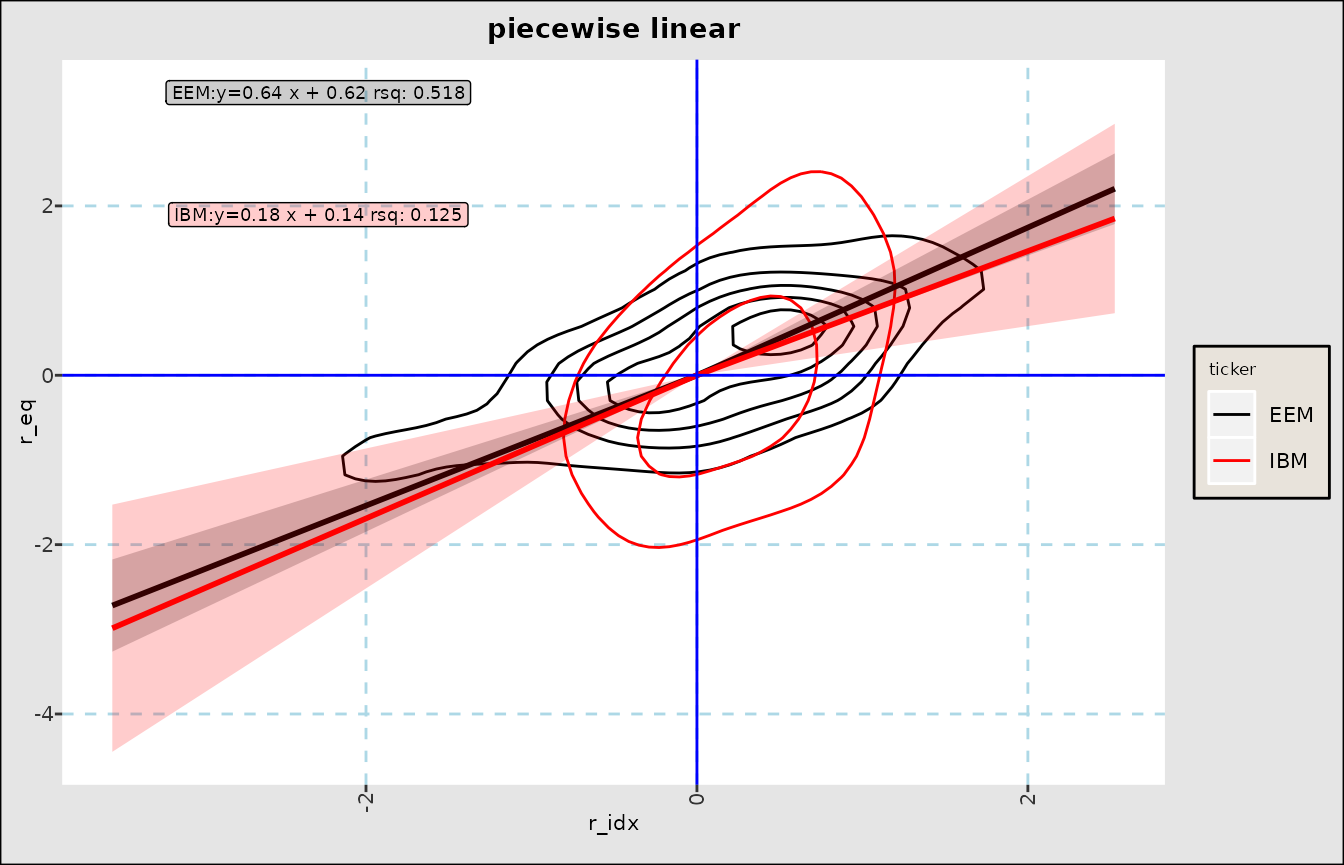
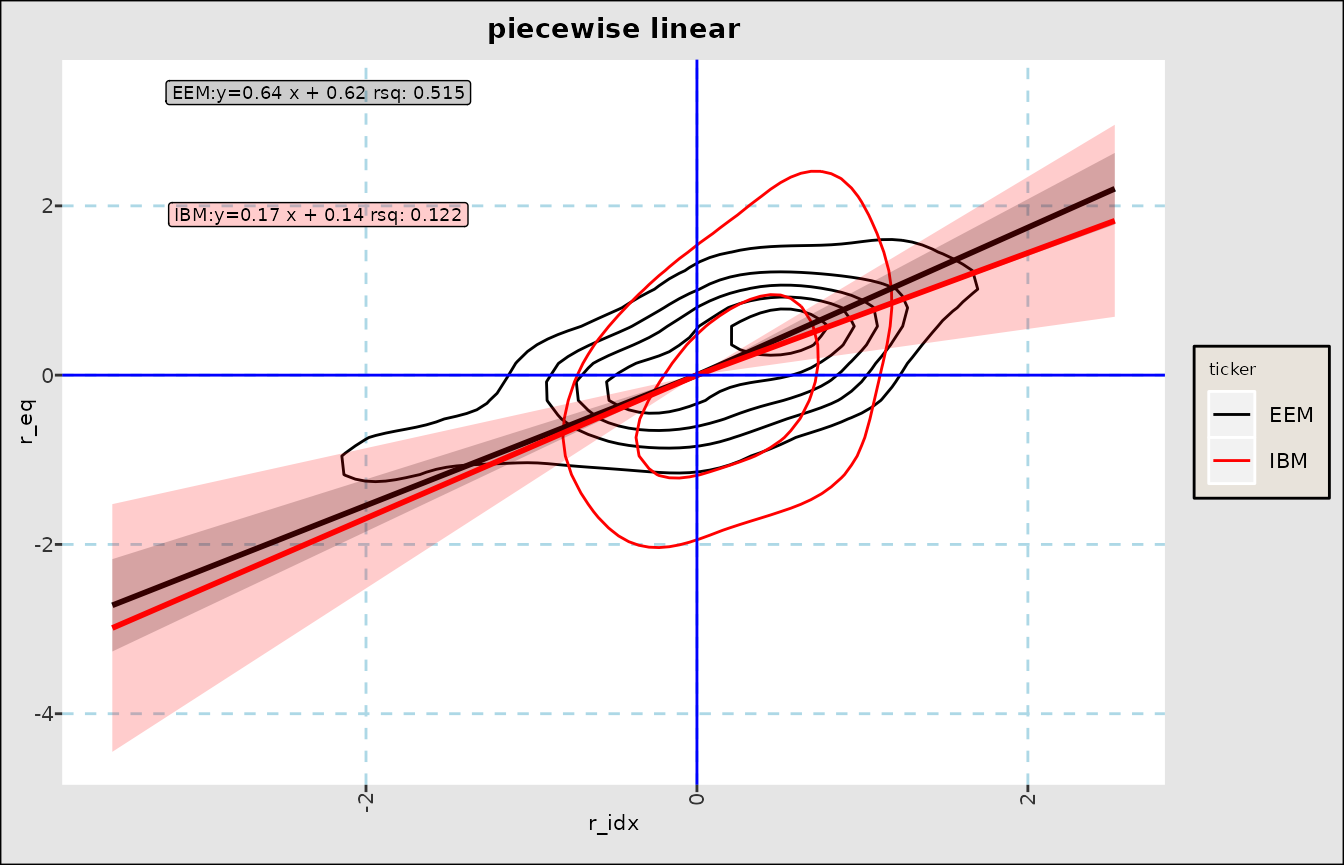
Deploying to gh-pages from @ derekholmes0/FinanceGraphs@0d99b816a4337595a4ce2541bef5dee7f5179ed4 🚀

diff --git a/extra.css b/extra.css
@@ -1,0 +1,32 @@
+/* Base font size for all body text */
+body {
+  font-size: 13px;
+}
+
+/* Code blocks and inline code */
+pre, code {
+  font-size: 11px !important;
+}
+
+/* Reference/function documentation */
+.contents {
+  font-size: 13px;
+}
+
+/* Article/vignette text */
+.row.article-content {
+  font-size: 12px;
+}
+
+/* Table output */
+table {
+  font-size: 11px;
+}
+
+.contents img {
+  border: 1px solid #cccccc;
+  padding: 4px;
+  border-radius: 4px;
+  display: block;
+  margin: 10px auto;   /* centers the image too */
+}

diff --git a/reference/fg_date_utilities.html b/reference/fg_date_utilities.html
@@ -1,5 +1,5 @@
 <!DOCTYPE html>
-<!-- Generated by pkgdown: do not edit by hand --><html lang="en"><head><meta http-equiv="Content-Type" content="text/html; charset=UTF-8"><meta charset="utf-8"><meta http-equiv="X-UA-Compatible" content="IE=edge"><meta name="viewport" content="width=device-width, initial-scale=1, shrink-to-fit=no"><title>Date Utilities — gendtstr • FinanceGraphs</title><script src="../deps/jquery-3.6.0/jquery-3.6.0.min.js"></script><meta name="viewport" content="width=device-width, initial-scale=1, shrink-to-fit=no"><link href="../deps/bootstrap-5.3.8/bootstrap.min.css" rel="stylesheet"><script src="../deps/bootstrap-5.3.8/bootstrap.bundle.min.js"></script><link href="../deps/font-awesome-6.5.2/css/all.min.css" rel="stylesheet"><link href="../deps/font-awesome-6.5.2/css/v4-shims.min.css" rel="stylesheet"><script src="../deps/headroom-0.11.0/headroom.min.js"></script><script src="../deps/headroom-0.11.0/jQuery.headroom.min.js"></script><script src="../deps/bootstrap-toc-1.0.1/bootstrap-toc.min.js"></script><script src="../deps/clipboard.js-2.0.11/clipboard.min.js"></script><script src="../deps/search-1.0.0/autocomplete.jquery.min.js"></script><script src="../deps/search-1.0.0/fuse.min.js"></script><script src="../deps/search-1.0.0/mark.min.js"></script><!-- pkgdown --><script src="../pkgdown.js"></script><meta property="og:title" content="Date Utilities — gendtstr"><meta name="description" content="COnverts a generic relative string defining one or two endpoints to exact dates or datestrings"><meta property="og:description" content="COnverts a generic relative string defining one or two endpoints to exact dates or datestrings"></head><body>
+<!-- Generated by pkgdown: do not edit by hand --><html lang="en"><head><meta http-equiv="Content-Type" content="text/html; charset=UTF-8"><meta charset="utf-8"><meta http-equiv="X-UA-Compatible" content="IE=edge"><meta name="viewport" content="width=device-width, initial-scale=1, shrink-to-fit=no"><title>Date Utilities — gendtstr • FinanceGraphs</title><script src="../deps/jquery-3.6.0/jquery-3.6.0.min.js"></script><meta name="viewport" content="width=device-width, initial-scale=1, shrink-to-fit=no"><link href="../deps/bootstrap-5.3.8/bootstrap.min.css" rel="stylesheet"><script src="../deps/bootstrap-5.3.8/bootstrap.bundle.min.js"></script><link href="../deps/font-awesome-6.5.2/css/all.min.css" rel="stylesheet"><link href="../deps/font-awesome-6.5.2/css/v4-shims.min.css" rel="stylesheet"><script src="../deps/headroom-0.11.0/headroom.min.js"></script><script src="../deps/headroom-0.11.0/jQuery.headroom.min.js"></script><script src="../deps/bootstrap-toc-1.0.1/bootstrap-toc.min.js"></script><script src="../deps/clipboard.js-2.0.11/clipboard.min.js"></script><script src="../deps/search-1.0.0/autocomplete.jquery.min.js"></script><script src="../deps/search-1.0.0/fuse.min.js"></script><script src="../deps/search-1.0.0/mark.min.js"></script><!-- pkgdown --><script src="../pkgdown.js"></script><link href="../extra.css" rel="stylesheet"><meta property="og:title" content="Date Utilities — gendtstr"><meta name="description" content="COnverts a generic relative string defining one or two endpoints to exact dates or datestrings"><meta property="og:description" content="COnverts a generic relative string defining one or two endpoints to exact dates or datestrings"></head><body>
     <a href="#main" class="visually-hidden-focusable">Skip to contents</a>
 
 
@@ -7,7 +7,7 @@
 
     <a class="navbar-brand me-2" href="../index.html">FinanceGraphs</a>
 
-    <small class="nav-text text-muted me-auto" data-bs-toggle="tooltip" data-bs-placement="bottom" title="">0.8.71</small>
+    <small class="nav-text text-muted me-auto" data-bs-toggle="tooltip" data-bs-placement="bottom" title="">0.8.75</small>
 
 
     <button class="navbar-toggler" type="button" data-bs-toggle="collapse" data-bs-target="#navbar" aria-controls="navbar" aria-expanded="false" aria-label="Toggle navigation">
@@ -142,16 +142,16 @@ If <code>rtn="list"</code> returns <code>c(startdt,enddt)</code>, if <code>rtn="
     <div class="section level2">
     <h2 id="ref-examples">Examples<a class="anchor" aria-label="anchor" href="#ref-examples"></a></h2>
     <div class="sourceCode"><pre class="sourceCode r"><code><span class="r-in"><span><span class="fu">gendtstr</span><span class="op">(</span><span class="st">"-3m::"</span><span class="op">)</span></span></span>
-<span class="r-out co"><span class="r-pr">#&gt;</span> [1] "2026-03-16::2026-06-16"</span>
+<span class="r-out co"><span class="r-pr">#&gt;</span> [1] "2026-03-18::2026-06-18"</span>
 <span class="r-in"><span><span class="fu">gendtstr</span><span class="op">(</span><span class="st">"-2y::-3m"</span>,today<span class="op">=</span><span class="fu"><a href="https://rdrr.io/r/base/as.Date.html" class="external-link">as.Date</a></span><span class="op">(</span><span class="st">"2025-03-15"</span><span class="op">)</span><span class="op">)</span></span></span>
 <span class="r-out co"><span class="r-pr">#&gt;</span> [1] "2023-03-15::2024-12-15"</span>
 <span class="r-in"><span><span class="fu">narrowbydtstr</span><span class="op">(</span><span class="va">eqtypx</span>,<span class="st">"-2m::-1m"</span><span class="op">)</span></span></span>
 <span class="r-out co"><span class="r-pr">#&gt;</span> Key: &lt;date&gt;</span>
 <span class="r-out co"><span class="r-pr">#&gt;</span> Empty data.table (0 rows and 5 cols): date,EEM,IBM,QQQ,TLT</span>
 <span class="r-in"><span><span class="fu">extenddtstr</span><span class="op">(</span><span class="st">"-2m::-1m"</span><span class="op">)</span></span></span>
-<span class="r-out co"><span class="r-pr">#&gt;</span> [1] "2026-04-16::2026-05-16"</span>
+<span class="r-out co"><span class="r-pr">#&gt;</span> [1] "2026-04-18::2026-05-18"</span>
 <span class="r-in"><span><span class="fu">extenddtstr</span><span class="op">(</span><span class="st">"-2m::-1m"</span>,begchg<span class="op">=</span><span class="op">-</span><span class="fl">10</span>,endchg<span class="op">=</span><span class="fl">5</span><span class="op">)</span></span></span>
-<span class="r-out co"><span class="r-pr">#&gt;</span> [1] "2026-04-06::2026-05-21"</span>
+<span class="r-out co"><span class="r-pr">#&gt;</span> [1] "2026-04-08::2026-05-23"</span>
 </code></pre></div>
     </div>
   </main><aside class="col-md-3"><nav id="toc" aria-label="Table of contents"><h2>On this page</h2>

diff --git a/index.html b/index.html
@@ -10,7 +10,8 @@
 <link href="deps/bootstrap-5.3.8/bootstrap.min.css" rel="stylesheet">
 <script src="deps/bootstrap-5.3.8/bootstrap.bundle.min.js"></script><link href="deps/font-awesome-6.5.2/css/all.min.css" rel="stylesheet">
 <link href="deps/font-awesome-6.5.2/css/v4-shims.min.css" rel="stylesheet">
-<script src="deps/headroom-0.11.0/headroom.min.js"></script><script src="deps/headroom-0.11.0/jQuery.headroom.min.js"></script><script src="deps/bootstrap-toc-1.0.1/bootstrap-toc.min.js"></script><script src="deps/clipboard.js-2.0.11/clipboard.min.js"></script><script src="deps/search-1.0.0/autocomplete.jquery.min.js"></script><script src="deps/search-1.0.0/fuse.min.js"></script><script src="deps/search-1.0.0/mark.min.js"></script><!-- pkgdown --><script src="pkgdown.js"></script><meta property="og:title" content="Flexible Graphs for Analysis of Financial Data and Time Series">
+<script src="deps/headroom-0.11.0/headroom.min.js"></script><script src="deps/headroom-0.11.0/jQuery.headroom.min.js"></script><script src="deps/bootstrap-toc-1.0.1/bootstrap-toc.min.js"></script><script src="deps/clipboard.js-2.0.11/clipboard.min.js"></script><script src="deps/search-1.0.0/autocomplete.jquery.min.js"></script><script src="deps/search-1.0.0/fuse.min.js"></script><script src="deps/search-1.0.0/mark.min.js"></script><!-- pkgdown --><script src="pkgdown.js"></script><link href="extra.css" rel="stylesheet">
+<meta property="og:title" content="Flexible Graphs for Analysis of Financial Data and Time Series">
 <meta name="description" content="Flexible wrappers around R graphics modules dygraphs &lt;https://dygraphs.com/&gt; and ggplot2 &lt;https://ggplot2.tidyverse.org/&gt; to visualize data commonly found in Financial Studies, with an emphasis on time series. Interactive time series plots include multiple options for incorporating external data such as forecasts and events. Other static plots useful for time series data include an intuitive and generic scatter plotter, a boxplot generator suitable for multiple time series, and event study plotters for time series analysis around sets of dates.">
 <meta property="og:description" content="Flexible wrappers around R graphics modules dygraphs &lt;https://dygraphs.com/&gt; and ggplot2 &lt;https://ggplot2.tidyverse.org/&gt; to visualize data commonly found in Financial Studies, with an emphasis on time series. Interactive time series plots include multiple options for incorporating external data such as forecasts and events. Other static plots useful for time series data include an intuitive and generic scatter plotter, a boxplot generator suitable for multiple time series, and event study plotters for time series analysis around sets of dates.">
 </head>
@@ -22,7 +23,7 @@
 
     <a class="navbar-brand me-2" href="index.html">FinanceGraphs</a>
 
-    <small class="nav-text text-muted me-auto" data-bs-toggle="tooltip" data-bs-placement="bottom" title="">0.8.71</small>
+    <small class="nav-text text-muted me-auto" data-bs-toggle="tooltip" data-bs-placement="bottom" title="">0.8.75</small>
 
 
     <button class="navbar-toggler" type="button" data-bs-toggle="collapse" data-bs-target="#navbar" aria-controls="navbar" aria-expanded="false" aria-label="Toggle navigation">
@@ -233,8 +234,8 @@ The <code>events</code> parameter is a string with one or more (separated by sem
 <span><span class="co">#&gt; NULL</span></span>
 <span><span class="fu"><a href="https://rdrr.io/r/utils/head.html" class="external-link">tail</a></span><span class="op">(</span><span class="fu"><a href="reference/fg_dates_of_interest.html">fg_get_dates_of_interest</a></span><span class="op">(</span><span class="st">"fedmoves"</span><span class="op">)</span>,<span class="fl">2</span><span class="op">)</span>  <span class="op">|&gt;</span> <span class="fu"><a href="https://rdrr.io/r/base/data.frame.html" class="external-link">data.frame</a></span><span class="op">(</span><span class="op">)</span></span>
 <span><span class="co">#&gt;   category eventid eventid2   DT_ENTRY END_DT_ENTRY color strokePattern  loc</span></span>
-<span><span class="co">#&gt; 1 fedmoves   F:-25     rt:4 2025-10-29   2025-10-29  &lt;NA&gt;          &lt;NA&gt; &lt;NA&gt;</span></span>
-<span><span class="co">#&gt; 2 fedmoves   F:-25  rt:3.75 2025-12-10   2025-12-10  &lt;NA&gt;          &lt;NA&gt; &lt;NA&gt;</span></span>
+<span><span class="co">#&gt; 1 fedmoves   F:-25  rt:3.75 2025-12-10   2025-12-10  &lt;NA&gt;          &lt;NA&gt; &lt;NA&gt;</span></span>
+<span><span class="co">#&gt; 2 fedmoves   F:-50     &lt;NA&gt; 2026-06-16   2026-06-16  &lt;NA&gt;          &lt;NA&gt; &lt;NA&gt;</span></span>
 <span><span class="fu"><a href="reference/set_constants.html">fg_reset_to_default_state</a></span><span class="op">(</span><span class="st">"all"</span><span class="op">)</span></span>
 <span><span class="co">#&gt; Removing dates file and reverting to defaults of package</span></span>
 <span><span class="co">#&gt; Removing Aesthetics file and reverting to defaults of package</span></span>

diff --git a/authors.html b/authors.html
@@ -1,5 +1,5 @@
 <!DOCTYPE html>
-<!-- Generated by pkgdown: do not edit by hand --><html lang="en"><head><meta http-equiv="Content-Type" content="text/html; charset=UTF-8"><meta charset="utf-8"><meta http-equiv="X-UA-Compatible" content="IE=edge"><meta name="viewport" content="width=device-width, initial-scale=1, shrink-to-fit=no"><title>Authors and Citation • FinanceGraphs</title><script src="deps/jquery-3.6.0/jquery-3.6.0.min.js"></script><meta name="viewport" content="width=device-width, initial-scale=1, shrink-to-fit=no"><link href="deps/bootstrap-5.3.8/bootstrap.min.css" rel="stylesheet"><script src="deps/bootstrap-5.3.8/bootstrap.bundle.min.js"></script><link href="deps/font-awesome-6.5.2/css/all.min.css" rel="stylesheet"><link href="deps/font-awesome-6.5.2/css/v4-shims.min.css" rel="stylesheet"><script src="deps/headroom-0.11.0/headroom.min.js"></script><script src="deps/headroom-0.11.0/jQuery.headroom.min.js"></script><script src="deps/bootstrap-toc-1.0.1/bootstrap-toc.min.js"></script><script src="deps/clipboard.js-2.0.11/clipboard.min.js"></script><script src="deps/search-1.0.0/autocomplete.jquery.min.js"></script><script src="deps/search-1.0.0/fuse.min.js"></script><script src="deps/search-1.0.0/mark.min.js"></script><!-- pkgdown --><script src="pkgdown.js"></script><meta property="og:title" content="Authors and Citation"></head><body>
+<!-- Generated by pkgdown: do not edit by hand --><html lang="en"><head><meta http-equiv="Content-Type" content="text/html; charset=UTF-8"><meta charset="utf-8"><meta http-equiv="X-UA-Compatible" content="IE=edge"><meta name="viewport" content="width=device-width, initial-scale=1, shrink-to-fit=no"><title>Authors and Citation • FinanceGraphs</title><script src="deps/jquery-3.6.0/jquery-3.6.0.min.js"></script><meta name="viewport" content="width=device-width, initial-scale=1, shrink-to-fit=no"><link href="deps/bootstrap-5.3.8/bootstrap.min.css" rel="stylesheet"><script src="deps/bootstrap-5.3.8/bootstrap.bundle.min.js"></script><link href="deps/font-awesome-6.5.2/css/all.min.css" rel="stylesheet"><link href="deps/font-awesome-6.5.2/css/v4-shims.min.css" rel="stylesheet"><script src="deps/headroom-0.11.0/headroom.min.js"></script><script src="deps/headroom-0.11.0/jQuery.headroom.min.js"></script><script src="deps/bootstrap-toc-1.0.1/bootstrap-toc.min.js"></script><script src="deps/clipboard.js-2.0.11/clipboard.min.js"></script><script src="deps/search-1.0.0/autocomplete.jquery.min.js"></script><script src="deps/search-1.0.0/fuse.min.js"></script><script src="deps/search-1.0.0/mark.min.js"></script><!-- pkgdown --><script src="pkgdown.js"></script><link href="extra.css" rel="stylesheet"><meta property="og:title" content="Authors and Citation"></head><body>
     <a href="#main" class="visually-hidden-focusable">Skip to contents</a>
 
 
@@ -7,7 +7,7 @@
 
     <a class="navbar-brand me-2" href="index.html">FinanceGraphs</a>
 
-    <small class="nav-text text-muted me-auto" data-bs-toggle="tooltip" data-bs-placement="bottom" title="">0.8.71</small>
+    <small class="nav-text text-muted me-auto" data-bs-toggle="tooltip" data-bs-placement="bottom" title="">0.8.75</small>
 
 
     <button class="navbar-toggler" type="button" data-bs-toggle="collapse" data-bs-target="#navbar" aria-controls="navbar" aria-expanded="false" aria-label="Toggle navigation">
@@ -52,13 +52,13 @@
 
       <p>Holmes D (2026).
 <em>FinanceGraphs: Flexible Graphs for Analysis of Financial Data and Time Series</em>.
-R package version 0.8.71, <a href="https://github.com/derekholmes0/FinanceGraphs" class="external-link">https://github.com/derekholmes0/FinanceGraphs</a>.
+R package version 0.8.75, <a href="https://github.com/derekholmes0/FinanceGraphs" class="external-link">https://github.com/derekholmes0/FinanceGraphs</a>.
 </p>
       <pre>@Manual{,
   title = {FinanceGraphs: Flexible Graphs for Analysis of Financial Data and Time Series},
   author = {Derek Holmes},
   year = {2026},
-  note = {R package version 0.8.71},
+  note = {R package version 0.8.75},
   url = {https://github.com/derekholmes0/FinanceGraphs},
 }</pre>
     </div>

diff --git a/404.html b/404.html
@@ -10,7 +10,8 @@
 <link href="https://derekholmes0.github.io/FinanceGraphs/deps/bootstrap-5.3.8/bootstrap.min.css" rel="stylesheet">
 <script src="https://derekholmes0.github.io/FinanceGraphs/deps/bootstrap-5.3.8/bootstrap.bundle.min.js"></script><link href="https://derekholmes0.github.io/FinanceGraphs/deps/font-awesome-6.5.2/css/all.min.css" rel="stylesheet">
 <link href="https://derekholmes0.github.io/FinanceGraphs/deps/font-awesome-6.5.2/css/v4-shims.min.css" rel="stylesheet">
-<script src="https://derekholmes0.github.io/FinanceGraphs/deps/headroom-0.11.0/headroom.min.js"></script><script src="https://derekholmes0.github.io/FinanceGraphs/deps/headroom-0.11.0/jQuery.headroom.min.js"></script><script src="https://derekholmes0.github.io/FinanceGraphs/deps/bootstrap-toc-1.0.1/bootstrap-toc.min.js"></script><script src="https://derekholmes0.github.io/FinanceGraphs/deps/clipboard.js-2.0.11/clipboard.min.js"></script><script src="https://derekholmes0.github.io/FinanceGraphs/deps/search-1.0.0/autocomplete.jquery.min.js"></script><script src="https://derekholmes0.github.io/FinanceGraphs/deps/search-1.0.0/fuse.min.js"></script><script src="https://derekholmes0.github.io/FinanceGraphs/deps/search-1.0.0/mark.min.js"></script><!-- pkgdown --><script src="https://derekholmes0.github.io/FinanceGraphs/pkgdown.js"></script><meta property="og:title" content="Page not found (404)">
+<script src="https://derekholmes0.github.io/FinanceGraphs/deps/headroom-0.11.0/headroom.min.js"></script><script src="https://derekholmes0.github.io/FinanceGraphs/deps/headroom-0.11.0/jQuery.headroom.min.js"></script><script src="https://derekholmes0.github.io/FinanceGraphs/deps/bootstrap-toc-1.0.1/bootstrap-toc.min.js"></script><script src="https://derekholmes0.github.io/FinanceGraphs/deps/clipboard.js-2.0.11/clipboard.min.js"></script><script src="https://derekholmes0.github.io/FinanceGraphs/deps/search-1.0.0/autocomplete.jquery.min.js"></script><script src="https://derekholmes0.github.io/FinanceGraphs/deps/search-1.0.0/fuse.min.js"></script><script src="https://derekholmes0.github.io/FinanceGraphs/deps/search-1.0.0/mark.min.js"></script><!-- pkgdown --><script src="https://derekholmes0.github.io/FinanceGraphs/pkgdown.js"></script><link href="https://derekholmes0.github.io/FinanceGraphs/extra.css" rel="stylesheet">
+<meta property="og:title" content="Page not found (404)">
 </head>
 <body>
     <a href="https://derekholmes0.github.io/FinanceGraphs/#main" class="visually-hidden-focusable">Skip to contents</a>
@@ -20,7 +21,7 @@
 
     <a class="navbar-brand me-2" href="https://derekholmes0.github.io/FinanceGraphs/index.html">FinanceGraphs</a>
 
-    <small class="nav-text text-muted me-auto" data-bs-toggle="tooltip" data-bs-placement="bottom" title="">0.8.71</small>
+    <small class="nav-text text-muted me-auto" data-bs-toggle="tooltip" data-bs-placement="bottom" title="">0.8.75</small>
 
 
     <button class="navbar-toggler" type="button" data-bs-toggle="collapse" data-bs-target="#navbar" aria-controls="navbar" aria-expanded="false" aria-label="Toggle navigation">

diff --git a/articles/FinanceGraphs-customization.html b/articles/FinanceGraphs-customization.html
@@ -10,7 +10,8 @@
 <link href="../deps/bootstrap-5.3.8/bootstrap.min.css" rel="stylesheet">
 <script src="../deps/bootstrap-5.3.8/bootstrap.bundle.min.js"></script><link href="../deps/font-awesome-6.5.2/css/all.min.css" rel="stylesheet">
 <link href="../deps/font-awesome-6.5.2/css/v4-shims.min.css" rel="stylesheet">
-<script src="../deps/headroom-0.11.0/headroom.min.js"></script><script src="../deps/headroom-0.11.0/jQuery.headroom.min.js"></script><script src="../deps/bootstrap-toc-1.0.1/bootstrap-toc.min.js"></script><script src="../deps/clipboard.js-2.0.11/clipboard.min.js"></script><script src="../deps/search-1.0.0/autocomplete.jquery.min.js"></script><script src="../deps/search-1.0.0/fuse.min.js"></script><script src="../deps/search-1.0.0/mark.min.js"></script><!-- pkgdown --><script src="../pkgdown.js"></script><meta property="og:title" content="FinanceGraphs-Customization">
+<script src="../deps/headroom-0.11.0/headroom.min.js"></script><script src="../deps/headroom-0.11.0/jQuery.headroom.min.js"></script><script src="../deps/bootstrap-toc-1.0.1/bootstrap-toc.min.js"></script><script src="../deps/clipboard.js-2.0.11/clipboard.min.js"></script><script src="../deps/search-1.0.0/autocomplete.jquery.min.js"></script><script src="../deps/search-1.0.0/fuse.min.js"></script><script src="../deps/search-1.0.0/mark.min.js"></script><!-- pkgdown --><script src="../pkgdown.js"></script><link href="../extra.css" rel="stylesheet">
+<meta property="og:title" content="FinanceGraphs-Customization">
 </head>
 <body>
     <a href="#main" class="visually-hidden-focusable">Skip to contents</a>
@@ -20,7 +21,7 @@
 
     <a class="navbar-brand me-2" href="../index.html">FinanceGraphs</a>
 
-    <small class="nav-text text-muted me-auto" data-bs-toggle="tooltip" data-bs-placement="bottom" title="">0.8.71</small>
+    <small class="nav-text text-muted me-auto" data-bs-toggle="tooltip" data-bs-placement="bottom" title="">0.8.75</small>
 
 
     <button class="navbar-toggler" type="button" data-bs-toggle="collapse" data-bs-target="#navbar" aria-controls="navbar" aria-expanded="false" aria-label="Toggle navigation">

diff --git a/articles/Time-Series-scatterplot.html b/articles/Time-Series-scatterplot.html
@@ -10,7 +10,8 @@
 <link href="../deps/bootstrap-5.3.8/bootstrap.min.css" rel="stylesheet">
 <script src="../deps/bootstrap-5.3.8/bootstrap.bundle.min.js"></script><link href="../deps/font-awesome-6.5.2/css/all.min.css" rel="stylesheet">
 <link href="../deps/font-awesome-6.5.2/css/v4-shims.min.css" rel="stylesheet">
-<script src="../deps/headroom-0.11.0/headroom.min.js"></script><script src="../deps/headroom-0.11.0/jQuery.headroom.min.js"></script><script src="../deps/bootstrap-toc-1.0.1/bootstrap-toc.min.js"></script><script src="../deps/clipboard.js-2.0.11/clipboard.min.js"></script><script src="../deps/search-1.0.0/autocomplete.jquery.min.js"></script><script src="../deps/search-1.0.0/fuse.min.js"></script><script src="../deps/search-1.0.0/mark.min.js"></script><!-- pkgdown --><script src="../pkgdown.js"></script><meta property="og:title" content="Time-Series-scatterplot">
+<script src="../deps/headroom-0.11.0/headroom.min.js"></script><script src="../deps/headroom-0.11.0/jQuery.headroom.min.js"></script><script src="../deps/bootstrap-toc-1.0.1/bootstrap-toc.min.js"></script><script src="../deps/clipboard.js-2.0.11/clipboard.min.js"></script><script src="../deps/search-1.0.0/autocomplete.jquery.min.js"></script><script src="../deps/search-1.0.0/fuse.min.js"></script><script src="../deps/search-1.0.0/mark.min.js"></script><!-- pkgdown --><script src="../pkgdown.js"></script><link href="../extra.css" rel="stylesheet">
+<meta property="og:title" content="Time-Series-scatterplot">
 </head>
 <body>
     <a href="#main" class="visually-hidden-focusable">Skip to contents</a>
@@ -20,7 +21,7 @@
 
     <a class="navbar-brand me-2" href="../index.html">FinanceGraphs</a>
 
-    <small class="nav-text text-muted me-auto" data-bs-toggle="tooltip" data-bs-placement="bottom" title="">0.8.71</small>
+    <small class="nav-text text-muted me-auto" data-bs-toggle="tooltip" data-bs-placement="bottom" title="">0.8.75</small>
 
 
     <button class="navbar-toggler" type="button" data-bs-toggle="collapse" data-bs-target="#navbar" aria-controls="navbar" aria-expanded="false" aria-label="Toggle navigation">

diff --git a/LICENSE.html b/LICENSE.html
@@ -1,5 +1,5 @@
 <!DOCTYPE html>
-<!-- Generated by pkgdown: do not edit by hand --><html lang="en"><head><meta http-equiv="Content-Type" content="text/html; charset=UTF-8"><meta charset="utf-8"><meta http-equiv="X-UA-Compatible" content="IE=edge"><meta name="viewport" content="width=device-width, initial-scale=1, shrink-to-fit=no"><title>GNU General Public License • FinanceGraphs</title><script src="deps/jquery-3.6.0/jquery-3.6.0.min.js"></script><meta name="viewport" content="width=device-width, initial-scale=1, shrink-to-fit=no"><link href="deps/bootstrap-5.3.8/bootstrap.min.css" rel="stylesheet"><script src="deps/bootstrap-5.3.8/bootstrap.bundle.min.js"></script><link href="deps/font-awesome-6.5.2/css/all.min.css" rel="stylesheet"><link href="deps/font-awesome-6.5.2/css/v4-shims.min.css" rel="stylesheet"><script src="deps/headroom-0.11.0/headroom.min.js"></script><script src="deps/headroom-0.11.0/jQuery.headroom.min.js"></script><script src="deps/bootstrap-toc-1.0.1/bootstrap-toc.min.js"></script><script src="deps/clipboard.js-2.0.11/clipboard.min.js"></script><script src="deps/search-1.0.0/autocomplete.jquery.min.js"></script><script src="deps/search-1.0.0/fuse.min.js"></script><script src="deps/search-1.0.0/mark.min.js"></script><!-- pkgdown --><script src="pkgdown.js"></script><meta property="og:title" content="GNU General Public License"></head><body>
+<!-- Generated by pkgdown: do not edit by hand --><html lang="en"><head><meta http-equiv="Content-Type" content="text/html; charset=UTF-8"><meta charset="utf-8"><meta http-equiv="X-UA-Compatible" content="IE=edge"><meta name="viewport" content="width=device-width, initial-scale=1, shrink-to-fit=no"><title>GNU General Public License • FinanceGraphs</title><script src="deps/jquery-3.6.0/jquery-3.6.0.min.js"></script><meta name="viewport" content="width=device-width, initial-scale=1, shrink-to-fit=no"><link href="deps/bootstrap-5.3.8/bootstrap.min.css" rel="stylesheet"><script src="deps/bootstrap-5.3.8/bootstrap.bundle.min.js"></script><link href="deps/font-awesome-6.5.2/css/all.min.css" rel="stylesheet"><link href="deps/font-awesome-6.5.2/css/v4-shims.min.css" rel="stylesheet"><script src="deps/headroom-0.11.0/headroom.min.js"></script><script src="deps/headroom-0.11.0/jQuery.headroom.min.js"></script><script src="deps/bootstrap-toc-1.0.1/bootstrap-toc.min.js"></script><script src="deps/clipboard.js-2.0.11/clipboard.min.js"></script><script src="deps/search-1.0.0/autocomplete.jquery.min.js"></script><script src="deps/search-1.0.0/fuse.min.js"></script><script src="deps/search-1.0.0/mark.min.js"></script><!-- pkgdown --><script src="pkgdown.js"></script><link href="extra.css" rel="stylesheet"><meta property="og:title" content="GNU General Public License"></head><body>
     <a href="#main" class="visually-hidden-focusable">Skip to contents</a>
 
 
@@ -7,7 +7,7 @@
 
     <a class="navbar-brand me-2" href="index.html">FinanceGraphs</a>
 
-    <small class="nav-text text-muted me-auto" data-bs-toggle="tooltip" data-bs-placement="bottom" title="">0.8.71</small>
+    <small class="nav-text text-muted me-auto" data-bs-toggle="tooltip" data-bs-placement="bottom" title="">0.8.75</small>
 
 
     <button class="navbar-toggler" type="button" data-bs-toggle="collapse" data-bs-target="#navbar" aria-controls="navbar" aria-expanded="false" aria-label="Toggle navigation">

diff --git a/articles/index.html b/articles/index.html
@@ -1,5 +1,5 @@
 <!DOCTYPE html>
-<!-- Generated by pkgdown: do not edit by hand --><html lang="en"><head><meta http-equiv="Content-Type" content="text/html; charset=UTF-8"><meta charset="utf-8"><meta http-equiv="X-UA-Compatible" content="IE=edge"><meta name="viewport" content="width=device-width, initial-scale=1, shrink-to-fit=no"><title>Articles • FinanceGraphs</title><script src="../deps/jquery-3.6.0/jquery-3.6.0.min.js"></script><meta name="viewport" content="width=device-width, initial-scale=1, shrink-to-fit=no"><link href="../deps/bootstrap-5.3.8/bootstrap.min.css" rel="stylesheet"><script src="../deps/bootstrap-5.3.8/bootstrap.bundle.min.js"></script><link href="../deps/font-awesome-6.5.2/css/all.min.css" rel="stylesheet"><link href="../deps/font-awesome-6.5.2/css/v4-shims.min.css" rel="stylesheet"><script src="../deps/headroom-0.11.0/headroom.min.js"></script><script src="../deps/headroom-0.11.0/jQuery.headroom.min.js"></script><script src="../deps/bootstrap-toc-1.0.1/bootstrap-toc.min.js"></script><script src="../deps/clipboard.js-2.0.11/clipboard.min.js"></script><script src="../deps/search-1.0.0/autocomplete.jquery.min.js"></script><script src="../deps/search-1.0.0/fuse.min.js"></script><script src="../deps/search-1.0.0/mark.min.js"></script><!-- pkgdown --><script src="../pkgdown.js"></script><meta property="og:title" content="Articles"></head><body>
+<!-- Generated by pkgdown: do not edit by hand --><html lang="en"><head><meta http-equiv="Content-Type" content="text/html; charset=UTF-8"><meta charset="utf-8"><meta http-equiv="X-UA-Compatible" content="IE=edge"><meta name="viewport" content="width=device-width, initial-scale=1, shrink-to-fit=no"><title>Articles • FinanceGraphs</title><script src="../deps/jquery-3.6.0/jquery-3.6.0.min.js"></script><meta name="viewport" content="width=device-width, initial-scale=1, shrink-to-fit=no"><link href="../deps/bootstrap-5.3.8/bootstrap.min.css" rel="stylesheet"><script src="../deps/bootstrap-5.3.8/bootstrap.bundle.min.js"></script><link href="../deps/font-awesome-6.5.2/css/all.min.css" rel="stylesheet"><link href="../deps/font-awesome-6.5.2/css/v4-shims.min.css" rel="stylesheet"><script src="../deps/headroom-0.11.0/headroom.min.js"></script><script src="../deps/headroom-0.11.0/jQuery.headroom.min.js"></script><script src="../deps/bootstrap-toc-1.0.1/bootstrap-toc.min.js"></script><script src="../deps/clipboard.js-2.0.11/clipboard.min.js"></script><script src="../deps/search-1.0.0/autocomplete.jquery.min.js"></script><script src="../deps/search-1.0.0/fuse.min.js"></script><script src="../deps/search-1.0.0/mark.min.js"></script><!-- pkgdown --><script src="../pkgdown.js"></script><link href="../extra.css" rel="stylesheet"><meta property="og:title" content="Articles"></head><body>
     <a href="#main" class="visually-hidden-focusable">Skip to contents</a>
 
 
@@ -7,7 +7,7 @@
 
     <a class="navbar-brand me-2" href="../index.html">FinanceGraphs</a>
 
-    <small class="nav-text text-muted me-auto" data-bs-toggle="tooltip" data-bs-placement="bottom" title="">0.8.71</small>
+    <small class="nav-text text-muted me-auto" data-bs-toggle="tooltip" data-bs-placement="bottom" title="">0.8.75</small>
 
 
     <button class="navbar-toggler" type="button" data-bs-toggle="collapse" data-bs-target="#navbar" aria-controls="navbar" aria-expanded="false" aria-label="Toggle navigation">

diff --git a/news/index.html b/news/index.html
@@ -1,5 +1,5 @@
 <!DOCTYPE html>
-<!-- Generated by pkgdown: do not edit by hand --><html lang="en"><head><meta http-equiv="Content-Type" content="text/html; charset=UTF-8"><meta charset="utf-8"><meta http-equiv="X-UA-Compatible" content="IE=edge"><meta name="viewport" content="width=device-width, initial-scale=1, shrink-to-fit=no"><title>Changelog • FinanceGraphs</title><script src="../deps/jquery-3.6.0/jquery-3.6.0.min.js"></script><meta name="viewport" content="width=device-width, initial-scale=1, shrink-to-fit=no"><link href="../deps/bootstrap-5.3.8/bootstrap.min.css" rel="stylesheet"><script src="../deps/bootstrap-5.3.8/bootstrap.bundle.min.js"></script><link href="../deps/font-awesome-6.5.2/css/all.min.css" rel="stylesheet"><link href="../deps/font-awesome-6.5.2/css/v4-shims.min.css" rel="stylesheet"><script src="../deps/headroom-0.11.0/headroom.min.js"></script><script src="../deps/headroom-0.11.0/jQuery.headroom.min.js"></script><script src="../deps/bootstrap-toc-1.0.1/bootstrap-toc.min.js"></script><script src="../deps/clipboard.js-2.0.11/clipboard.min.js"></script><script src="../deps/search-1.0.0/autocomplete.jquery.min.js"></script><script src="../deps/search-1.0.0/fuse.min.js"></script><script src="../deps/search-1.0.0/mark.min.js"></script><!-- pkgdown --><script src="../pkgdown.js"></script><meta property="og:title" content="Changelog"></head><body>
+<!-- Generated by pkgdown: do not edit by hand --><html lang="en"><head><meta http-equiv="Content-Type" content="text/html; charset=UTF-8"><meta charset="utf-8"><meta http-equiv="X-UA-Compatible" content="IE=edge"><meta name="viewport" content="width=device-width, initial-scale=1, shrink-to-fit=no"><title>Changelog • FinanceGraphs</title><script src="../deps/jquery-3.6.0/jquery-3.6.0.min.js"></script><meta name="viewport" content="width=device-width, initial-scale=1, shrink-to-fit=no"><link href="../deps/bootstrap-5.3.8/bootstrap.min.css" rel="stylesheet"><script src="../deps/bootstrap-5.3.8/bootstrap.bundle.min.js"></script><link href="../deps/font-awesome-6.5.2/css/all.min.css" rel="stylesheet"><link href="../deps/font-awesome-6.5.2/css/v4-shims.min.css" rel="stylesheet"><script src="../deps/headroom-0.11.0/headroom.min.js"></script><script src="../deps/headroom-0.11.0/jQuery.headroom.min.js"></script><script src="../deps/bootstrap-toc-1.0.1/bootstrap-toc.min.js"></script><script src="../deps/clipboard.js-2.0.11/clipboard.min.js"></script><script src="../deps/search-1.0.0/autocomplete.jquery.min.js"></script><script src="../deps/search-1.0.0/fuse.min.js"></script><script src="../deps/search-1.0.0/mark.min.js"></script><!-- pkgdown --><script src="../pkgdown.js"></script><link href="../extra.css" rel="stylesheet"><meta property="og:title" content="Changelog"></head><body>
     <a href="#main" class="visually-hidden-focusable">Skip to contents</a>
 
 
@@ -7,7 +7,7 @@
 
     <a class="navbar-brand me-2" href="../index.html">FinanceGraphs</a>
 
-    <small class="nav-text text-muted me-auto" data-bs-toggle="tooltip" data-bs-placement="bottom" title="">0.8.71</small>
+    <small class="nav-text text-muted me-auto" data-bs-toggle="tooltip" data-bs-placement="bottom" title="">0.8.75</small>
 
 
     <button class="navbar-toggler" type="button" data-bs-toggle="collapse" data-bs-target="#navbar" aria-controls="navbar" aria-expanded="false" aria-label="Toggle navigation">

diff --git a/reference/Event_Helpers.html b/reference/Event_Helpers.html
@@ -1,5 +1,5 @@
 <!DOCTYPE html>
-<!-- Generated by pkgdown: do not edit by hand --><html lang="en"><head><meta http-equiv="Content-Type" content="text/html; charset=UTF-8"><meta charset="utf-8"><meta http-equiv="X-UA-Compatible" content="IE=edge"><meta name="viewport" content="width=device-width, initial-scale=1, shrink-to-fit=no"><title>Event Helpers : fg_ratingsEvents — fg_ratingsEvents • FinanceGraphs</title><script src="../deps/jquery-3.6.0/jquery-3.6.0.min.js"></script><meta name="viewport" content="width=device-width, initial-scale=1, shrink-to-fit=no"><link href="../deps/bootstrap-5.3.8/bootstrap.min.css" rel="stylesheet"><script src="../deps/bootstrap-5.3.8/bootstrap.bundle.min.js"></script><link href="../deps/font-awesome-6.5.2/css/all.min.css" rel="stylesheet"><link href="../deps/font-awesome-6.5.2/css/v4-shims.min.css" rel="stylesheet"><script src="../deps/headroom-0.11.0/headroom.min.js"></script><script src="../deps/headroom-0.11.0/jQuery.headroom.min.js"></script><script src="../deps/bootstrap-toc-1.0.1/bootstrap-toc.min.js"></script><script src="../deps/clipboard.js-2.0.11/clipboard.min.js"></script><script src="../deps/search-1.0.0/autocomplete.jquery.min.js"></script><script src="../deps/search-1.0.0/fuse.min.js"></script><script src="../deps/search-1.0.0/mark.min.js"></script><!-- pkgdown --><script src="../pkgdown.js"></script><meta property="og:title" content="Event Helpers : fg_ratingsEvents — fg_ratingsEvents"><meta name="description" content="Calls tidyquant::tq_get() to get dividends for a given set of tickers.  A previously created data.frame can also be input.
+<!-- Generated by pkgdown: do not edit by hand --><html lang="en"><head><meta http-equiv="Content-Type" content="text/html; charset=UTF-8"><meta charset="utf-8"><meta http-equiv="X-UA-Compatible" content="IE=edge"><meta name="viewport" content="width=device-width, initial-scale=1, shrink-to-fit=no"><title>Event Helpers : fg_ratingsEvents — fg_ratingsEvents • FinanceGraphs</title><script src="../deps/jquery-3.6.0/jquery-3.6.0.min.js"></script><meta name="viewport" content="width=device-width, initial-scale=1, shrink-to-fit=no"><link href="../deps/bootstrap-5.3.8/bootstrap.min.css" rel="stylesheet"><script src="../deps/bootstrap-5.3.8/bootstrap.bundle.min.js"></script><link href="../deps/font-awesome-6.5.2/css/all.min.css" rel="stylesheet"><link href="../deps/font-awesome-6.5.2/css/v4-shims.min.css" rel="stylesheet"><script src="../deps/headroom-0.11.0/headroom.min.js"></script><script src="../deps/headroom-0.11.0/jQuery.headroom.min.js"></script><script src="../deps/bootstrap-toc-1.0.1/bootstrap-toc.min.js"></script><script src="../deps/clipboard.js-2.0.11/clipboard.min.js"></script><script src="../deps/search-1.0.0/autocomplete.jquery.min.js"></script><script src="../deps/search-1.0.0/fuse.min.js"></script><script src="../deps/search-1.0.0/mark.min.js"></script><!-- pkgdown --><script src="../pkgdown.js"></script><link href="../extra.css" rel="stylesheet"><meta property="og:title" content="Event Helpers : fg_ratingsEvents — fg_ratingsEvents"><meta name="description" content="Calls tidyquant::tq_get() to get dividends for a given set of tickers.  A previously created data.frame can also be input.
 Created event_ds from alphavantagepf::av_get_pf quarterly earnings data."><meta property="og:description" content="Calls tidyquant::tq_get() to get dividends for a given set of tickers.  A previously created data.frame can also be input.
 Created event_ds from alphavantagepf::av_get_pf quarterly earnings data."><!-- dependencies from examples --><script src="libs/htmlwidgets-1.6.4/htmlwidgets.js"></script><link href="libs/dygraphs-1.1.1/dygraph.css" rel="stylesheet"><script src="libs/dygraphs-1.1.1/dygraph-combined.js"></script><script src="libs/dygraphs-1.1.1/shapes.js"></script><script src="libs/moment-2.8.4/moment.js"></script><script src="libs/moment-timezone-0.2.5/moment-timezone-with-data.js"></script><script src="libs/moment-fquarter-1.0.0/moment-fquarter.min.js"></script><script src="libs/dygraphs-binding-1.1.1.6/dygraphs.js"></script><script src="libs/Dygraph.Plugins.Crosshair-1.0/crosshair.js"></script><script src="libs/Dygraph.Plugins.Unzoom-1.0/unzoom.js"></script></head><body>
     <a href="#main" class="visually-hidden-focusable">Skip to contents</a>
@@ -9,7 +9,7 @@ Created event_ds from alphavantagepf::av_get_pf quarterly earnings data."><!-- d
 
     <a class="navbar-brand me-2" href="../index.html">FinanceGraphs</a>
 
-    <small class="nav-text text-muted me-auto" data-bs-toggle="tooltip" data-bs-placement="bottom" title="">0.8.71</small>
+    <small class="nav-text text-muted me-auto" data-bs-toggle="tooltip" data-bs-placement="bottom" title="">0.8.75</small>
 
 
     <button class="navbar-toggler" type="button" data-bs-toggle="collapse" data-bs-target="#navbar" aria-controls="navbar" aria-expanded="false" aria-label="Toggle navigation">

diff --git a/reference/FinanceGraphs-package.html b/reference/FinanceGraphs-package.html
@@ -1,5 +1,5 @@
 <!DOCTYPE html>
-<!-- Generated by pkgdown: do not edit by hand --><html lang="en"><head><meta http-equiv="Content-Type" content="text/html; charset=UTF-8"><meta charset="utf-8"><meta http-equiv="X-UA-Compatible" content="IE=edge"><meta name="viewport" content="width=device-width, initial-scale=1, shrink-to-fit=no"><title>FinanceGraphs: Flexible Graphs for Analysis of Financial Data and Time Series — FinanceGraphs-package • FinanceGraphs</title><script src="../deps/jquery-3.6.0/jquery-3.6.0.min.js"></script><meta name="viewport" content="width=device-width, initial-scale=1, shrink-to-fit=no"><link href="../deps/bootstrap-5.3.8/bootstrap.min.css" rel="stylesheet"><script src="../deps/bootstrap-5.3.8/bootstrap.bundle.min.js"></script><link href="../deps/font-awesome-6.5.2/css/all.min.css" rel="stylesheet"><link href="../deps/font-awesome-6.5.2/css/v4-shims.min.css" rel="stylesheet"><script src="../deps/headroom-0.11.0/headroom.min.js"></script><script src="../deps/headroom-0.11.0/jQuery.headroom.min.js"></script><script src="../deps/bootstrap-toc-1.0.1/bootstrap-toc.min.js"></script><script src="../deps/clipboard.js-2.0.11/clipboard.min.js"></script><script src="../deps/search-1.0.0/autocomplete.jquery.min.js"></script><script src="../deps/search-1.0.0/fuse.min.js"></script><script src="../deps/search-1.0.0/mark.min.js"></script><!-- pkgdown --><script src="../pkgdown.js"></script><meta property="og:title" content="FinanceGraphs: Flexible Graphs for Analysis of Financial Data and Time Series — FinanceGraphs-package"><meta name="description" content="Flexible wrappers around R graphics modules 'dygraphs' https://dygraphs.com/ and 'ggplot2' https://ggplot2.tidyverse.org/ to visualize data commonly found in Financial Studies, with an emphasis on time series. Interactive time series plots include multiple options for incorporating external data such as forecasts and events. Other static plots useful for time series data include an intuitive and generic scatter plotter, a boxplot generator suitable for multiple time series, and event study plotters for time series analysis around sets of dates."><meta property="og:description" content="Flexible wrappers around R graphics modules 'dygraphs' https://dygraphs.com/ and 'ggplot2' https://ggplot2.tidyverse.org/ to visualize data commonly found in Financial Studies, with an emphasis on time series. Interactive time series plots include multiple options for incorporating external data such as forecasts and events. Other static plots useful for time series data include an intuitive and generic scatter plotter, a boxplot generator suitable for multiple time series, and event study plotters for time series analysis around sets of dates."></head><body>
+<!-- Generated by pkgdown: do not edit by hand --><html lang="en"><head><meta http-equiv="Content-Type" content="text/html; charset=UTF-8"><meta charset="utf-8"><meta http-equiv="X-UA-Compatible" content="IE=edge"><meta name="viewport" content="width=device-width, initial-scale=1, shrink-to-fit=no"><title>FinanceGraphs: Flexible Graphs for Analysis of Financial Data and Time Series — FinanceGraphs-package • FinanceGraphs</title><script src="../deps/jquery-3.6.0/jquery-3.6.0.min.js"></script><meta name="viewport" content="width=device-width, initial-scale=1, shrink-to-fit=no"><link href="../deps/bootstrap-5.3.8/bootstrap.min.css" rel="stylesheet"><script src="../deps/bootstrap-5.3.8/bootstrap.bundle.min.js"></script><link href="../deps/font-awesome-6.5.2/css/all.min.css" rel="stylesheet"><link href="../deps/font-awesome-6.5.2/css/v4-shims.min.css" rel="stylesheet"><script src="../deps/headroom-0.11.0/headroom.min.js"></script><script src="../deps/headroom-0.11.0/jQuery.headroom.min.js"></script><script src="../deps/bootstrap-toc-1.0.1/bootstrap-toc.min.js"></script><script src="../deps/clipboard.js-2.0.11/clipboard.min.js"></script><script src="../deps/search-1.0.0/autocomplete.jquery.min.js"></script><script src="../deps/search-1.0.0/fuse.min.js"></script><script src="../deps/search-1.0.0/mark.min.js"></script><!-- pkgdown --><script src="../pkgdown.js"></script><link href="../extra.css" rel="stylesheet"><meta property="og:title" content="FinanceGraphs: Flexible Graphs for Analysis of Financial Data and Time Series — FinanceGraphs-package"><meta name="description" content="Flexible wrappers around R graphics modules 'dygraphs' https://dygraphs.com/ and 'ggplot2' https://ggplot2.tidyverse.org/ to visualize data commonly found in Financial Studies, with an emphasis on time series. Interactive time series plots include multiple options for incorporating external data such as forecasts and events. Other static plots useful for time series data include an intuitive and generic scatter plotter, a boxplot generator suitable for multiple time series, and event study plotters for time series analysis around sets of dates."><meta property="og:description" content="Flexible wrappers around R graphics modules 'dygraphs' https://dygraphs.com/ and 'ggplot2' https://ggplot2.tidyverse.org/ to visualize data commonly found in Financial Studies, with an emphasis on time series. Interactive time series plots include multiple options for incorporating external data such as forecasts and events. Other static plots useful for time series data include an intuitive and generic scatter plotter, a boxplot generator suitable for multiple time series, and event study plotters for time series analysis around sets of dates."></head><body>
     <a href="#main" class="visually-hidden-focusable">Skip to contents</a>
 
 
@@ -7,7 +7,7 @@
 
     <a class="navbar-brand me-2" href="../index.html">FinanceGraphs</a>
 
-    <small class="nav-text text-muted me-auto" data-bs-toggle="tooltip" data-bs-placement="bottom" title="">0.8.71</small>
+    <small class="nav-text text-muted me-auto" data-bs-toggle="tooltip" data-bs-placement="bottom" title="">0.8.75</small>
 
 
     <button class="navbar-toggler" type="button" data-bs-toggle="collapse" data-bs-target="#navbar" aria-controls="navbar" aria-expanded="false" aria-label="Toggle navigation">